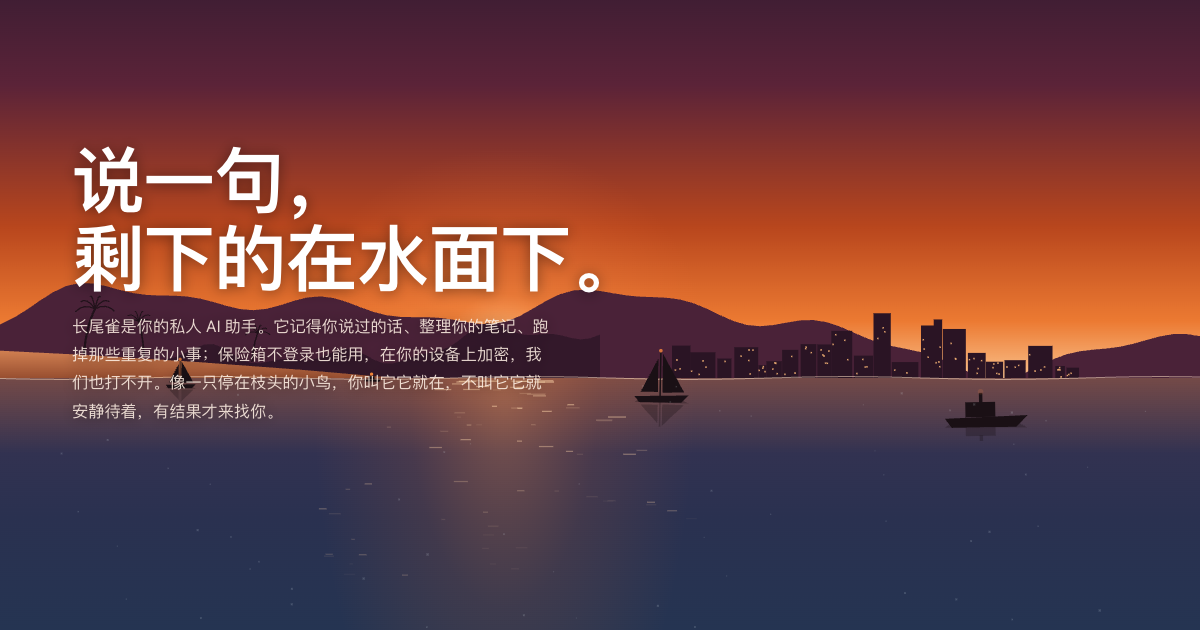
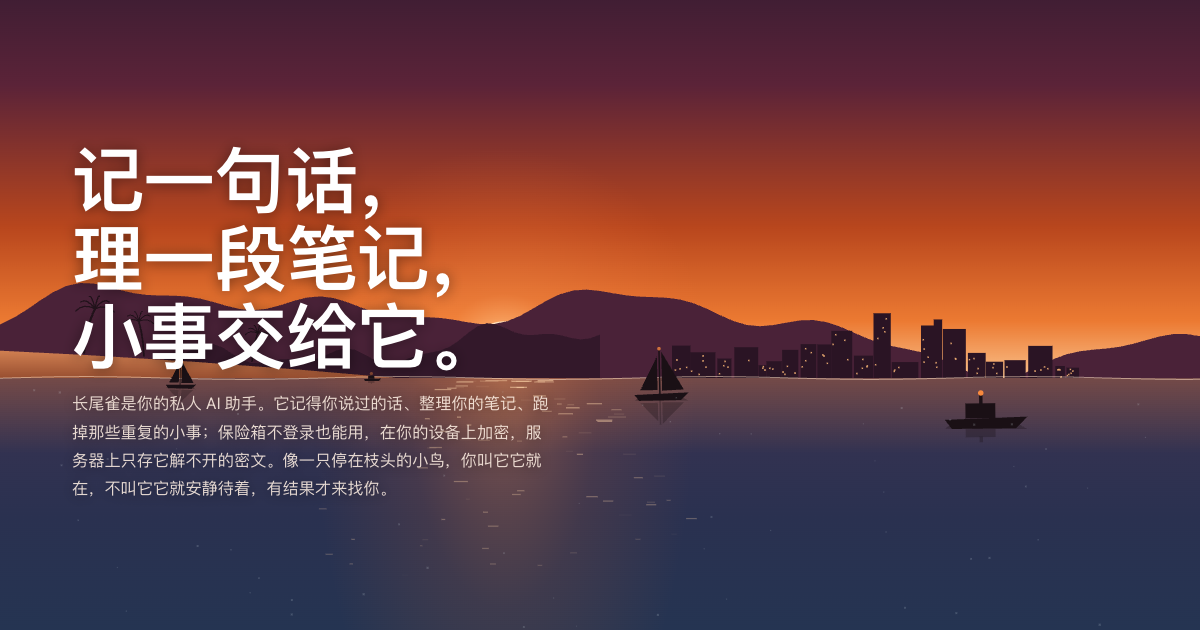
官网撤「深海 / 本影」叙事文案，去掉「我们」（设计侧 286 §一 6、287 §二）
首屏标题回到具体小事；首页七段眉标去掉深度、水温、水层，刻度尺改成功能名、不再显示米数；
「越深越安全」「到底了」「往下潜」「对话只是水面」改平实。canvas 海景先留着，等标志定稿后设计出新首页。
产品称「它」、用户称「你」：站内文案的「我们」全部改写（法务草案里作为合同一方的「我们」不动）。og.png 重新生成。

Changed region(s): [[0.0, 0.2111, 0.4933, 0.7841], [0.5242, 0.573, 0.7708, 0.6333], [0.8017, 0.573, 1.0, 0.6032]]

diff --git a/src/i18n/zh.ts b/src/i18n/zh.ts
@@ -38,7 +38,7 @@ export const zh = {
           links: [
             { href: '/help/', label: '帮助' },
             { href: '/changelog/', label: '更新日志' },
-            { href: '/about/', label: '关于我们' },
+            { href: '/about/', label: `关于${B.productName}` },
           ],
         },
         {
@@ -55,28 +55,29 @@ export const zh = {
   },
 
   home: {
-    gaugeLabel: '下潜深度',
+    // 右侧刻度尺：海景画面先留着（等标志定稿后设计出新首页），刻度只写功能名，不再显示深度。
+    gaugeLabel: '本页目录',
     gaugeJump: '跳到',
     sections: [
       {
         id: 'surface',
         depth: 0,
-        zone: '海平面',
+        zone: '开始',
         eyebrow: `${B.productName} · 私人 AI 助手`,
-        title: '说一句，\n剩下的在水面下。',
+        title: '记一句话，\n理一段笔记，\n小事交给它。',
         // 名字故事的「两三句」版（sam 10-23 原稿，按产品实际改写：对话走云端模型、登录后会同步、执勤会推送）。
-        body: `${B.productName}是你的私人 AI 助手。它记得你说过的话、整理你的笔记、跑掉那些重复的小事；保险箱不登录也能用，在你的设备上加密，我们也打不开。像一只停在枝头的小鸟，你叫它它就在，不叫它它就安静待着，有结果才来找你。`,
+        body: `${B.productName}是你的私人 AI 助手。它记得你说过的话、整理你的笔记、跑掉那些重复的小事；保险箱不登录也能用，在你的设备上加密，服务器上只存它解不开的密文。像一只停在枝头的小鸟，你叫它它就在，不叫它它就安静待着，有结果才来找你。`,
         cta: [
           { href: '/download/', label: `下载${B.productName}`, primary: true },
-          { href: '#dive', label: '往下潜 ↓' },
+          { href: '#dive', label: '看它做什么 ↓' },
         ],
       },
       {
         id: 'dive',
         depth: 5,
-        zone: '入水',
-        eyebrow: '−5 m · 入水 · 21 °C · 1.5 atm',
-        title: '水面上是一句话。\n水面下是一整件事。',
+        zone: '一件事',
+        eyebrow: '从一句话开始',
+        title: '你说一句话。\n它办完一整件事。',
         say: { who: '你 · 在手机上', text: '把这周的报销整理好，周五下午提醒我交。' },
         steps: [
           { at: '14:02', text: '拆成三步，派给你的电脑' },
@@ -88,8 +89,8 @@ export const zh = {
       {
         id: 'photic',
         depth: 30,
-        zone: '透光层',
-        eyebrow: '−30 m · 透光层 · 20 °C · 4 atm',
+        zone: '任务',
+        eyebrow: '任务 · 执勤表',
         title: '交代一件事，它分步做完',
         body: '拆成步骤，派给合适的设备，每一步实时回报。到点的事交给执勤表，它会自己醒来去做。',
         chips: ['任务编排', '执勤表', '提醒', '电脑操控'],
@@ -98,28 +99,28 @@ export const zh = {
       {
         id: 'twilight',
         depth: 200,
-        zone: '暮光层',
-        eyebrow: '−200 m · 暮光层 · 12 °C · 21 atm',
+        zone: '记忆',
+        eyebrow: '记忆 · 知识库',
         title: '它记得，也读过',
-        body: '你说过的偏好、聊过的项目、存进来的资料，会慢慢沉下来，变成它下次回答你的底气。随手记的灵感，它帮你整理、帮你去查。',
+        body: '你说过的偏好、聊过的项目、存进来的资料，会慢慢攒下来，变成它下次回答你的底气。随手记的灵感，它帮你整理、帮你去查。',
         chips: ['长期记忆', '知识库', '灵感'],
         more: { href: '/features/memory/', label: '了解记忆与知识库' },
       },
       {
         id: 'midnight',
         depth: 1000,
-        zone: '午夜层',
-        eyebrow: '−1000 m · 午夜层 · 4 °C · 101 atm',
-        title: '越深，越安全',
-        body: '密码保险箱用主密码加 Secret Key 在你的设备上加密。服务器上只存密文，我们也打不开。不登录，它照样能用。',
+        zone: '保险箱',
+        eyebrow: '密码保险箱',
+        title: '密码交给它，钥匙在你手里',
+        body: '密码保险箱用主密码加 Secret Key 在你的设备上加密。服务器上只存它解不开的密文。不登录，它照样能用。',
         chips: ['端到端加密', '自动填充', '单机可用'],
         more: { href: '/features/vault/', label: '了解保险箱' },
       },
       {
         id: 'abyss',
         depth: 4000,
-        zone: '深渊层',
-        eyebrow: '−4000 m · 深渊层 · 2 °C · 401 atm',
+        zone: '多设备',
+        eyebrow: '多设备 · 远程控制',
         title: '每台设备，连在同一张网上',
         body: `手机上说，电脑上做。人不在电脑前，也能远程看见、操作它。能力用插件扩展；想自己做设计，还有跑在本机的${B.studioName}。`,
         chips: ['多设备协同', '远程控制', '插件与主题', B.studioName],
@@ -128,21 +129,21 @@ export const zh = {
       {
         id: 'seabed',
         depth: 4800,
-        zone: '海底',
-        eyebrow: '−4800 m · 海底',
-        title: '到底了。\n现在，浮上去用它。',
+        zone: '下载',
+        eyebrow: '会员与下载',
+        title: '装上它，\n从一件小事开始。',
         body: '会员管 AI 额度，积分买插件和道具。新用户第一次用 AI 送 7 天会员。',
         more: { href: '/pricing/', label: '查看会员与积分' },
       },
     ],
-    // 海底那张网上的节点名（画在 canvas 里）
+    // 画面最底下那张设备网上的节点名（画在 canvas 里）
     netLabels: ['服务端', '手机', '平板', '电脑', 'Studio', '插件', '远程控制'],
     reducedNote: '你的系统设置了「减少动态效果」，这一页不播动画。',
   },
 
   features: {
     title: '功能',
-    lead: `对话只是水面。下面这些，是${B.productName}每天替你做的事。`,
+    lead: `对话只是开头。下面这些，是${B.productName}每天替你做的事。`,
     moreLabel: '了解更多',
     shotPending: '截图整理中',
     related: '相关功能',
@@ -187,7 +188,7 @@ export const zh = {
         name: '密码保险箱',
         short: '主密码加 Secret Key 本机加密，服务器只存密文。',
         eyebrow: '端到端加密 · 自动填充 · 单机可用',
-        title: '越深，\n越安全。',
+        title: '密码交给它，\n钥匙在你手里。',
         lead: '保险箱里的东西在你的设备上加密以后才离开设备。服务器只负责保存和同步密文，没有你的主密码和 Secret Key，谁也打不开。',
         shot: 'vault',
         phone: '',
@@ -291,7 +292,7 @@ export const zh = {
     ],
     studio: { title: '还想自己做设计？', body: `${B.studioName} 是跑在你电脑上的设计软件，稿子存在本地。`, link: `了解${B.studioName}` },
     contactTitle: '加入内测',
-    contactBody: '内测名额有限。把你用的设备和想用它做什么发给我们：',
+    contactBody: '内测名额有限。写上你用的设备和想用它做什么，发到这个邮箱：',
   },
 
   pricing: {
@@ -325,7 +326,7 @@ export const zh = {
       { q: '额度为什么只显示百分比？', a: '不同的事消耗不一样，一次长任务和一句闲聊差很多。百分比让你直接看到「还剩多少」，不用自己换算。' },
       { q: '会员到期会自动扣费吗？', a: '现在不会。自动续费还没有开通，到期后在账号页手动续费即可。以后开通时，付款页会写清楚，也能随时一键关掉。' },
       { q: '不开会员能用吗？', a: '能。提醒、记账、灵感、保险箱这些本地功能一直免费，不登录也能用。用到 AI 的部分才需要会员。' },
-      { q: '怎么退款？', a: '见用户协议里的退款条款，或者通过帮助页的联系方式找我们。' },
+      { q: '怎么退款？', a: '见用户协议里的退款条款，或者按帮助页的联系方式发邮件。' },
     ],
   },
 
@@ -366,8 +367,8 @@ export const zh = {
 
   help: {
     title: '帮助',
-    lead: '先看看这些常见问题；没找到答案就联系我们。',
-    contactTitle: '联系我们',
+    lead: '先看看这些常见问题；没找到答案就发邮件。',
+    contactTitle: '联系方式',
     contactBody: '邮件里写上你用的设备和版本号，处理会快很多。',
     copy: '复制',
     copied: '已复制',
@@ -385,7 +386,7 @@ export const zh = {
         items: [
           { q: '我的数据存在哪？', a: '登录后的同步数据存在中国内地的服务器上。保险箱只存密文。本地功能的数据只在你的设备上，除非你登录并同步。' },
           { q: '你们能看到我的保险箱吗？', a: '不能。保险箱在你的设备上用主密码和 Secret Key 加密，服务器只保存密文。' },
-          { q: '忘了主密码怎么办？', a: '我们没法帮你找回，这是端到端加密的代价。请把 Secret Key 和应急信息抄在安全的地方。' },
+          { q: '忘了主密码怎么办？', a: '主密码找不回来，这是端到端加密的代价。请把 Secret Key 和应急信息抄在安全的地方。' },
           { q: '删掉的东西能找回吗？', a: '删掉的任务、提醒等先进回收站，保留 30 天，这期间随时能恢复。' },
         ],
       },
@@ -405,10 +406,10 @@ export const zh = {
     // 名字的含义：sam 10-23 原稿「一段」版，按产品实际改写（不写本地运行、不上传、不推送）。
     // 正文里的「长尾雀」指真鸟（物种名），不是产品名，所以不走 brand 常量。
     body: [
-      '长尾雀是一种真实存在的小鸟：只有麻雀大，尾巴却占了身长的一半，一年四季都停在同一片灌木丛里，不吵也不走。我们用它给这个产品起名，是因为它做的事和这只鸟很像。',
-      '「长尾」是长尾需求：那些没有哪个大产品会专门做、却占了你生活一半的小事。「雀」是离人最近的鸟，但不聒噪：没变化它就安静，有结果才来找你。而它停在枝头守着，是我们最重要的承诺：到点的事，它自己醒来去做；你的东西，它替你看好：保险箱不登录也能用，在你的设备上加密，服务器上只有密文，我们也打不开。',
+      '长尾雀是一种真实存在的小鸟：只有麻雀大，尾巴却占了身长的一半，一年四季都停在同一片灌木丛里，不吵也不走。这个产品借了它的名字，因为它做的事和这只鸟很像。',
+      '「长尾」是长尾需求：那些没有哪个大产品会专门做、却占了你生活一半的小事。「雀」是离人最近的鸟，但不聒噪：没变化它就安静，有结果才来找你。而它停在枝头守着，是它最重要的承诺：到点的事，它自己醒来去做；你的东西，它替你看好：保险箱不登录也能用，在你的设备上加密，服务器上只存它解不开的密文。',
       `英文名 ${B.productNameEn}，que 是雀，tail 是尾巴，合起来还是那只长尾雀。熟了以后，叫它${B.nickname}就行。`,
-      `${B.productName}由一个很小的团队开发，服务端、电脑端、手机端和 Studio 都是自己写的。我们在意两件事：你的数据只用来帮你做事，以及能在本机做完的事尽量不上云。`,
+      `${B.productName}由一个很小的团队开发，服务端、电脑端、手机端和 Studio 都是自己写的。团队在意两件事：你的数据只用来帮你做事，以及能在本机做完的事尽量不上云。`,
     ],
     photoAlt: '长尾雀（Carpodacus sibiricus）',
     photoPending: '长尾雀照片待授权',

diff --git a/src/scripts/ocean/scene.ts b/src/scripts/ocean/scene.ts
@@ -10,7 +10,7 @@
 // - 标签页切到后台暂停循环；首帧耗时超标自动降档（tier.ts）。
 // - 系统「减少动态效果」→ 不跑循环，只在滚动时重画一帧。
 
-import { buildKeys, camAt, clamp, depthAt, activeIndex, formatDepth, lerp, type Key } from './camera';
+import { buildKeys, camAt, clamp, activeIndex, lerp, type Key } from './camera';
 import { pickTier, TIER_PARAMS, type Tier, type TierParams } from './tier';
 
 /** 每段居中时相机深度（屏高）。改这里就是改「每段之间下潜多远」。 */
@@ -22,7 +22,7 @@ export interface OceanOptions {
   depths: number[];
   zones: string[];
   netLabels: string[];
-  readout?: { depth: HTMLElement; zone: HTMLElement; ticks: HTMLElement[] };
+  readout?: { zone: HTMLElement; ticks: HTMLElement[] };
   /** 测试 / 调试：强制某一档 */
   forceTier?: Tier;
 }
@@ -438,7 +438,6 @@ export function startOcean(opt: OceanOptions): () => void {
   function hud() {
     const r = opt.readout;
     if (!r) return;
-    r.depth.textContent = formatDepth(depthAt(keys, scrollY));
     const on = activeIndex(keys, scrollY);
     if (on !== lastOn) {
       r.ticks.forEach((b, i) => b.toggleAttribute('aria-current', i === on));
